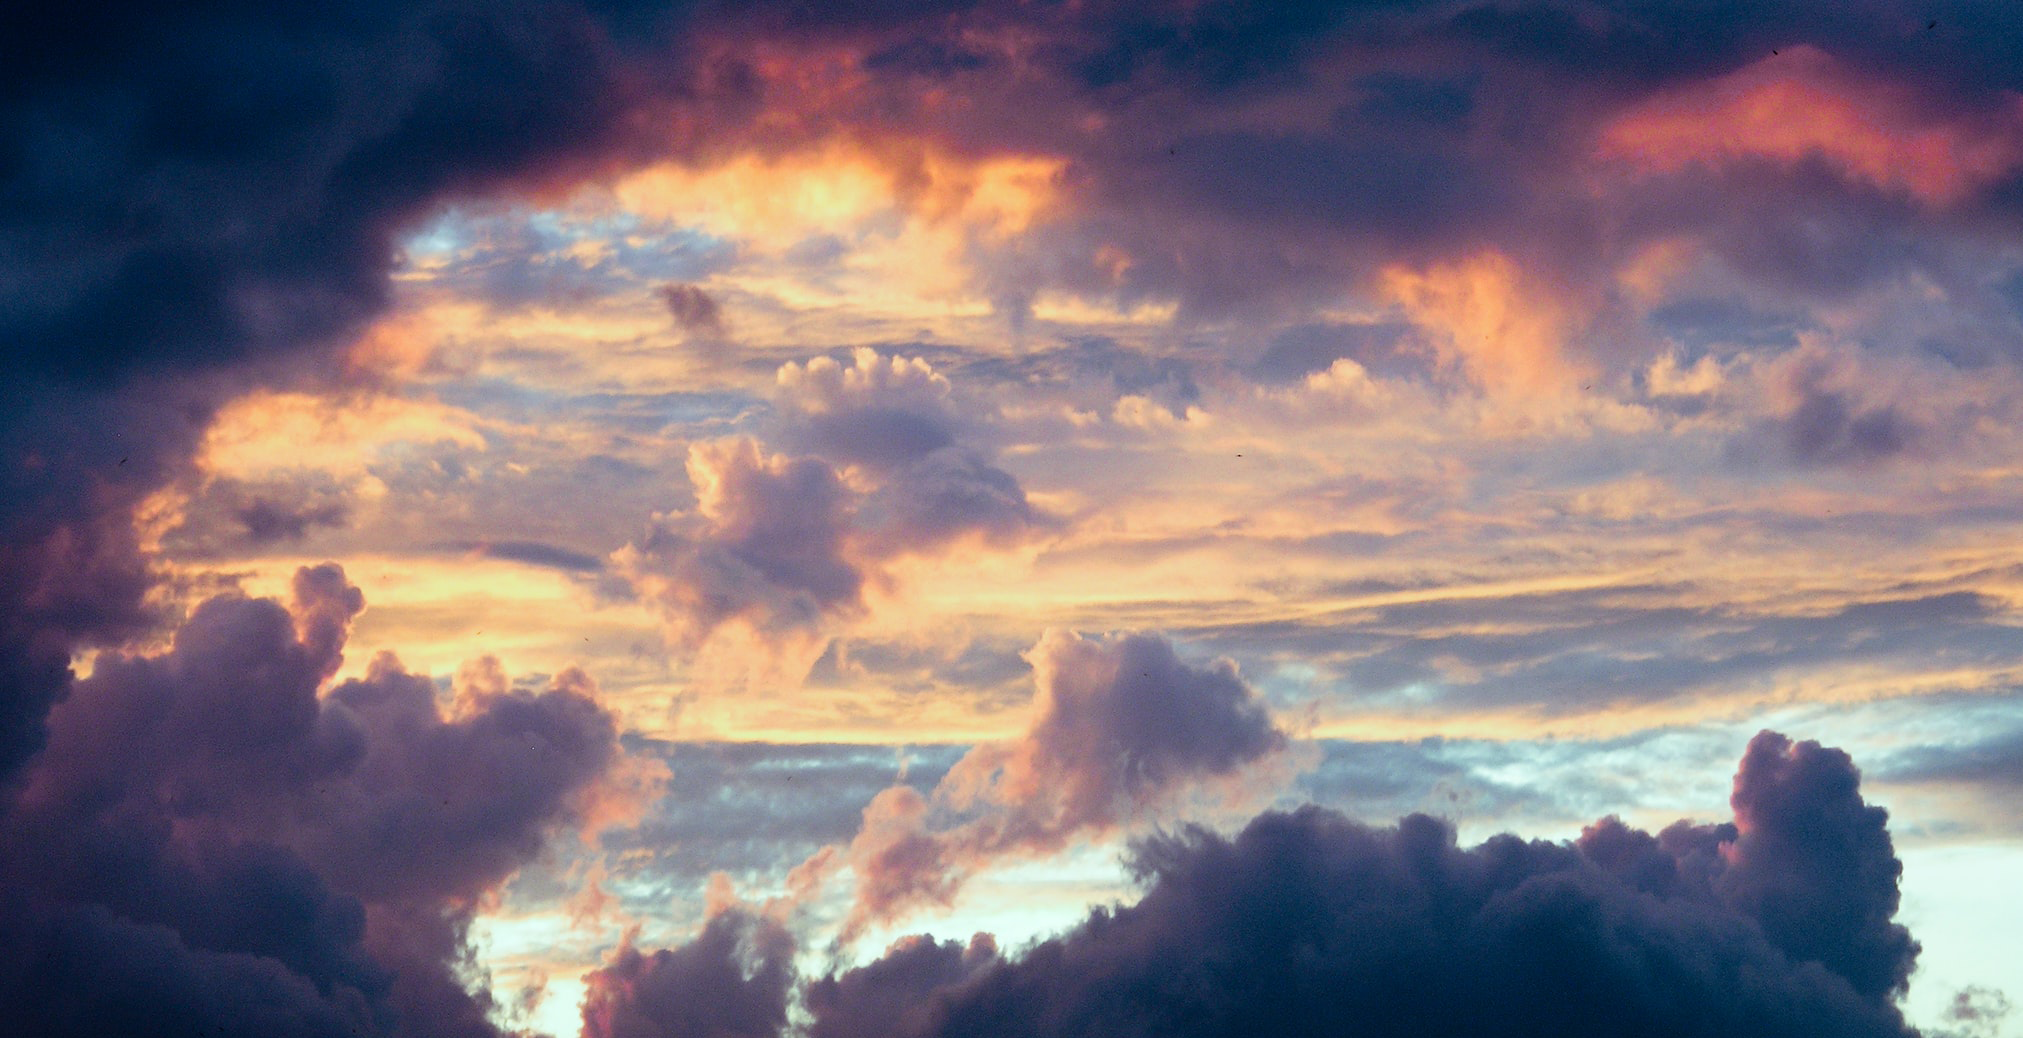
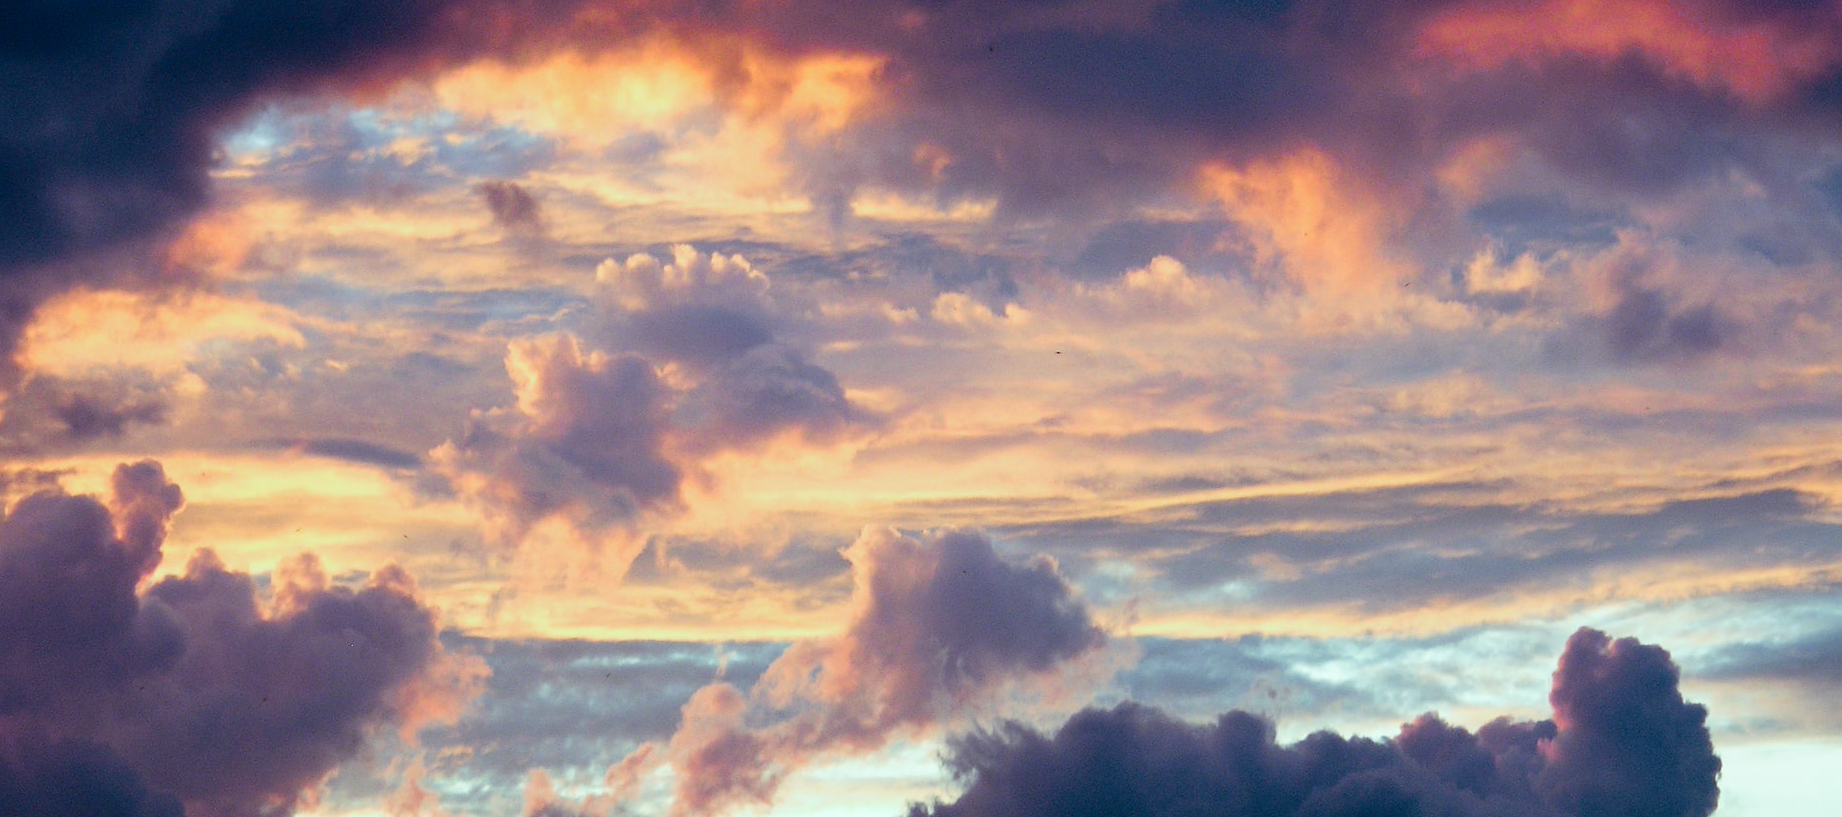
pic

diff --git a/index.html b/index.html
@@ -74,7 +74,7 @@
 <!-- Baggrundsbillede - ændrer efter vejr -->
 <style>
     body{
-        background-image: url("images/strand.jpg");
+        background-image: url("images/cloudsunpic.png");
         background-repeat: no-repeat;
         }
 </style>
